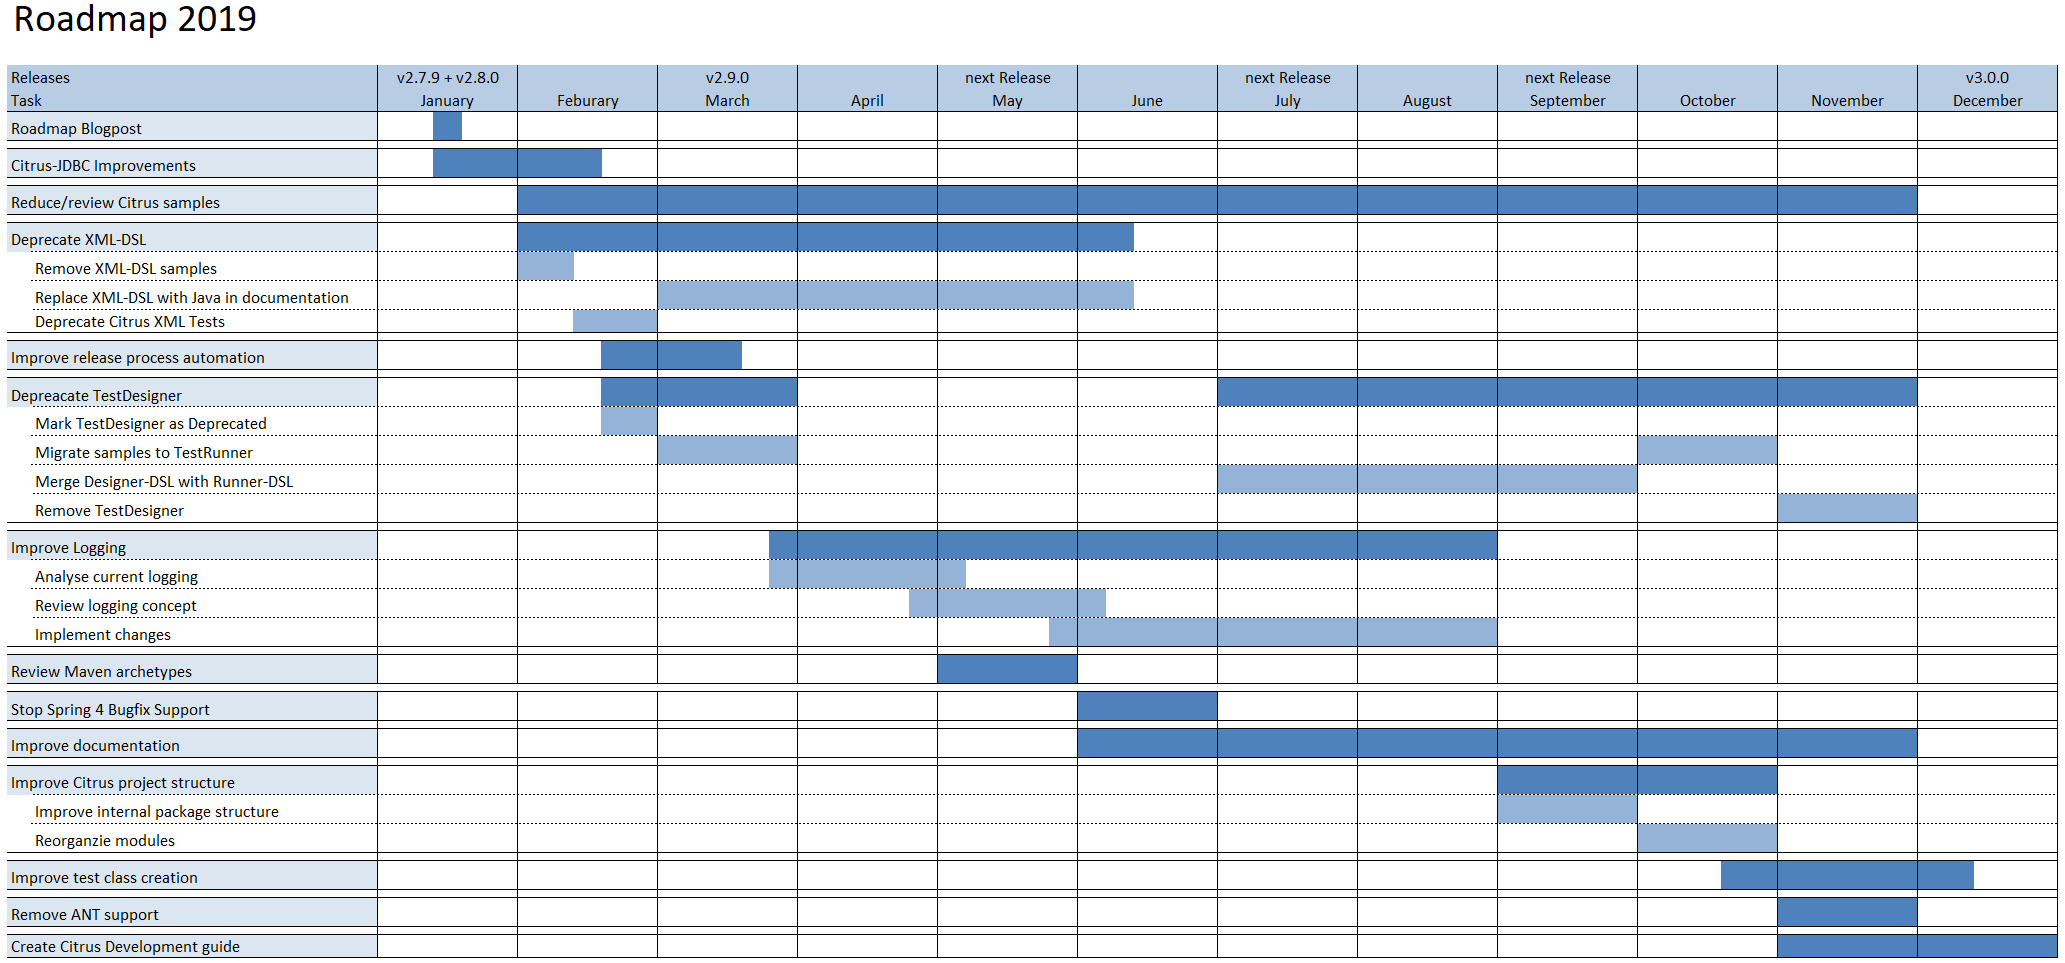
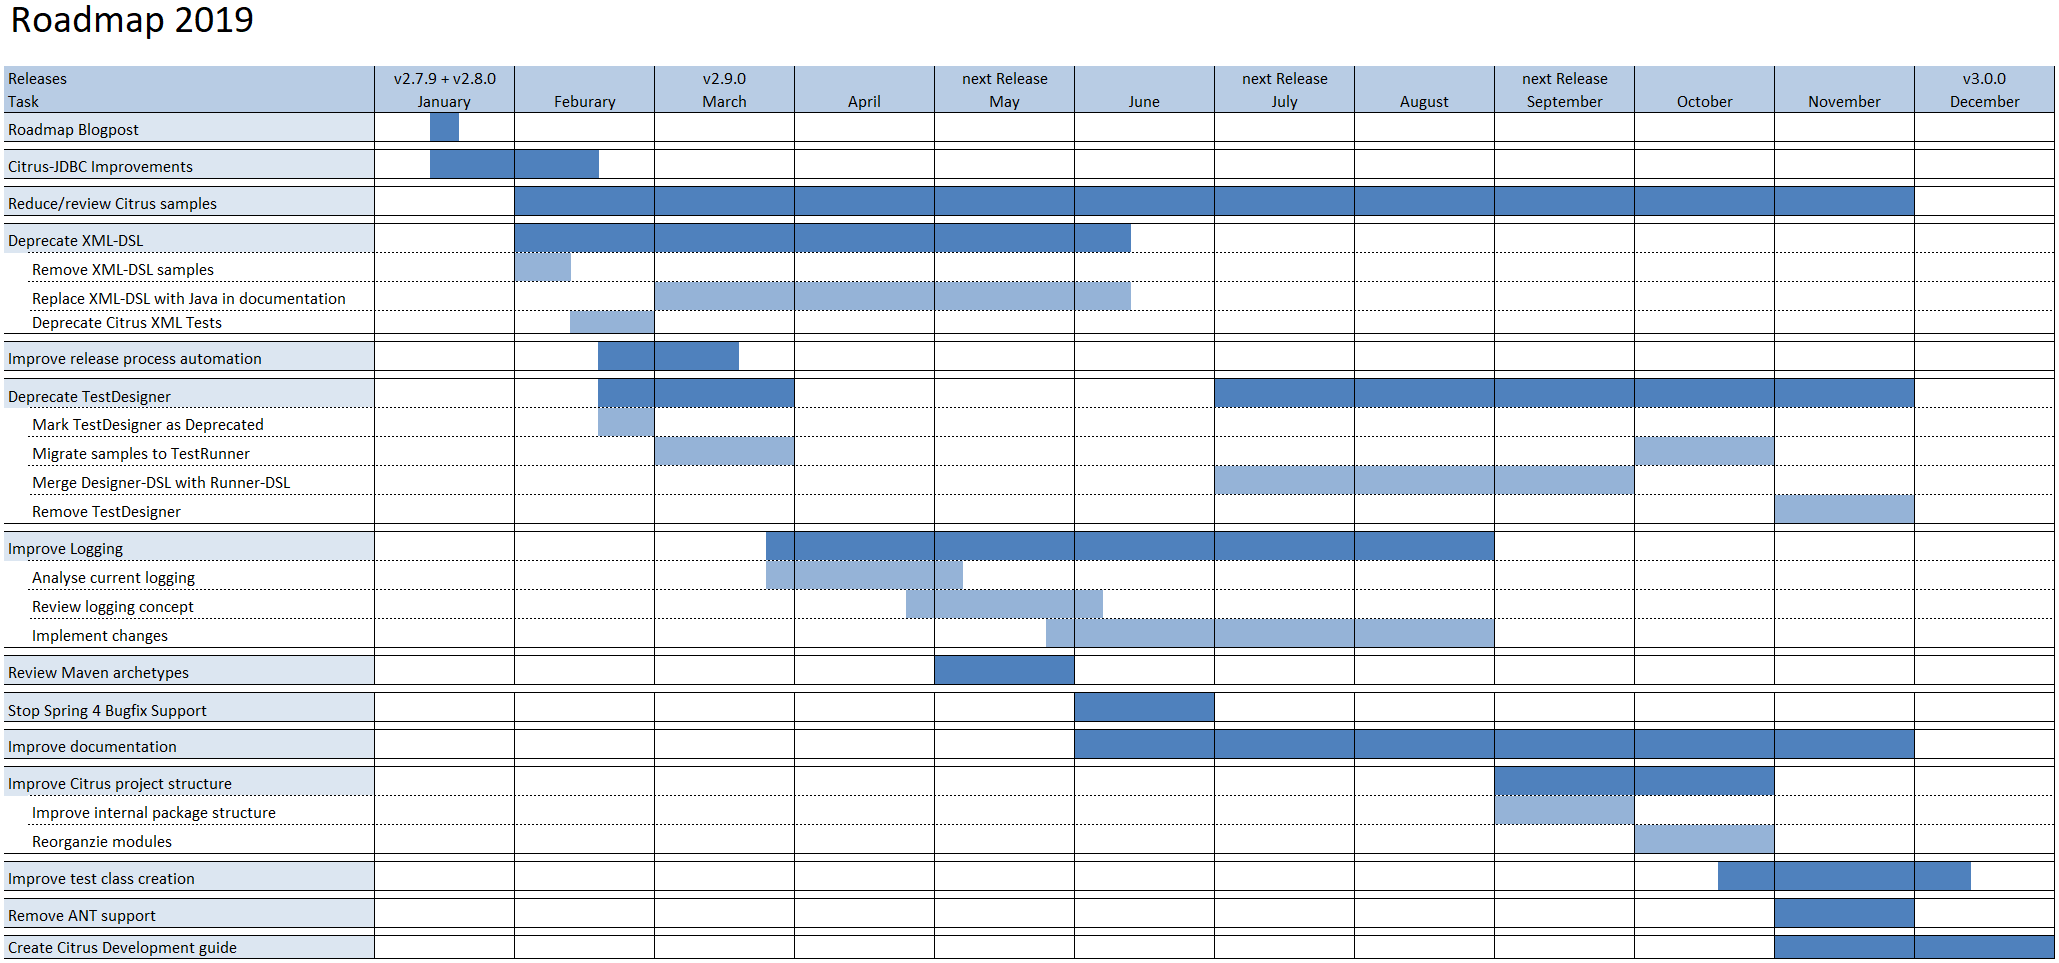
[WIP] roadmap blogpost

diff --git a/src/main/site/_posts/2019-01-11-citrus-roadmap-2019.md b/src/main/site/_posts/2019-01-11-citrus-roadmap-2019.md
@@ -1,0 +1,122 @@
+---
+layout: post
+title: Roadmap for 2019
+short-title: Roadmap for 2019
+author: Sven Hettwer
+github: svettwer
+categories: [blog]
+---
+
+**Happy new year everybody**
+
+The year has just started and I'm happy that we're finally ready to share the roadmap for Citrus in 2019 with you. 
+As promised via [twitter](https://twitter.com/citrus_test/status/1073162157259440128), this year
+*[...] will be about community, enhancing documentation and improving the ease of use of Citrus with a focus on the 
+API, the tooling and the commonly used modules*. With more than ten years of history, Citrus has grown from a utility
+framework in a customers project into a full fledged message based integration testing framework with the capability of
+testing complex software systems supporting a vast amount of communication protocols and messaging technologies.
+Every year, the feature set and the number of available modules has been grown and because of this, Citrus has become the
+powerful, reliable and flexible testing tool it is today. And this year, we want to make Citrus even more awesome!
+
+In this post, I'll go through all the points mentioned and provide some details. The roadmap only contains the major topics 
+we want to approach. We'll still answer questions, fix bugs, add enhancements and smaller features. We'll also create
+epics on GitHub for every major topic to make the progress transparent to the community. Please notice that the time
+ranges marked in the timeline are more a rough estimation to give you an idea when we want to work on a certain topic.  
+But before we go into the details of the roadmap, let's have a look at some other things that we're going to change.
+
+## Release schedule
+We're planning to release a new Citrus version constantly every two months starting with the release of *v2.7.9* and
+*v2.8.0* this January. This will provide a constant stream Ich of improvements and new features to you.
+In addition, we're planning to release a major version of the framework once a year if required, to be able to improve
+the API based on the feedback of the community and perform major version updates of our dependencies. 
+
+## High-Priority- and Low-Priority-Modules
+During the lasts months, we've monitored the download statistics from the maven central repository and recognized that
+some modules are significantly more popular than others. From today on, we want to focus on the modules that are heavily
+used by the community. Therefore we'll divide the Citurs modules into *High-Priority-Modules* and *Low-Priority-Modules*.
+Newer Modules are also High-Priority as they just have to establish first. We'll invest the major part of our time into the 
+High-Priority-Modules to improve the documentation, samples and GitHub support and also focus on bug fixes and new features.
+The Low-Priority-Modules on the other hand, will take a back seat concerning this topics. If you're interested to help
+us maintaining one of the modules, feel free to contact us and propose pull requests. We always appreciate any kind of
+contribution.    
+
+### High-Priority-Modules
+* Camel
+* Cucumber
+* FTP
+* HTTP
+* JDBC
+* JMS
+* Kafka
+* Mail
+* Selenium
+* SSH
+* Vert.x
+* Websockets
+* SOAP
+
+### Low-Priority-Modules
+* Arquillian
+* Docker
+* JXM
+* Kubernetes
+* Restdocs
+* RMI
+* Zookeeper
+
+## Roadmap 2019
+
+[ ![roadmap-2019.png](${context.path}/img/citrus/roadmap-2019.png)](${context.path}/img/citrus/roadmap-2019.png){:target="_blank"}
+
+### Citrus-JDBC Improvements
+Based on the feedback we received last year, we're going to improve the Citrus-JDBC functionality. This includes
+output parameters in callable statements, JDBC batch statements, various data types and much more.
+
+### Reduce/review Citrus samples
+The [citrus-samples](https://github.com/citrusframework/citrus-samples) repository contains a vast amount of samples in
+XML and Java representing a good amount of the Citrus functionality. But this also makes it hard for new users to get
+orientation. That's why we want to review the Citrus samples completely and create a set that reflects the functionality
+of the framework while making them easy to understand and a good point to start from. To archive this, we'll focus on samples
+for the High-Priority-Modules and reduce the amount of samples for Low-Priority-Modules.
+
+### Deprecate XML-DSL
+In order to improve the maintainability of the framework and reduce the complexity from a users perspective, we're going
+to deprecate the XML-DSL. The use case for the XML-DSL was to provide a way to create integration tests without any knowledge
+of Java. As we're moving to a DevOps world, software developers become also testers, the use case for the XML-DSL gets
+more and more obsolete. The deprecation should encourage users to start developing their tests in Java and migrate their
+current XML-DSL test suites. We're not going to remove the XML-DSL completely from the framework any time soon but on the
+long term, this will be the case. We'll announce the final removal with at least one year of lead time for migration.
+Until then, the XML-DSL will still be usable as it is but won't be extended or supported.
+
+### Improve release process automation
+To be able to release Citrus, in a dedicated release schedule, we want to invest in our release automation.
+On the long term, we want to ship often and in small increments so that you don't have to wait long for your contribution,
+your requested feature, enhancement or bug fix to be released. 
+
+### Deprecate TestDesigner
+To clean up the Java DSL, improve the maintainability of the framework and reduce the complexity from a users perspective,
+we're going to deprecate the TestDesigner. We recommend the TestRunner for a while now and think, that the 
+way it works, is the way we want to go. Therefore we'll migrate all Java samples to the TestRunner in the near future.
+This will help you to get started with a new project and as well with a migration. Speaking of migration, we're planning to
+merge the DSL style of the TestDesigner to the TestRunner. Our goal is to get the TestRunner DSL as close as possible to
+the TestDesigner DSL so that the migration won't consume much time. In addition, we think the TestDesigner DSL is much
+easier to read and write. So merging both DSL styles should make it easier for everybody to create test cases and also
+helps new users to understand, how the framework works.
+
+### Improve Logging
+### Review Maven archetypes
+### Stop Spring 4 Bugfix Support
+### Improve documentation
+### Improve Citrus project structure
+### Improve test class creation
+### Remove ANT support
+### Create Citrus Development guide
+
+
+Sven Hettwer ([@SvenHettwer](https://twitter.com/SvenHettwer))
+
+
+
+
+
+ 
